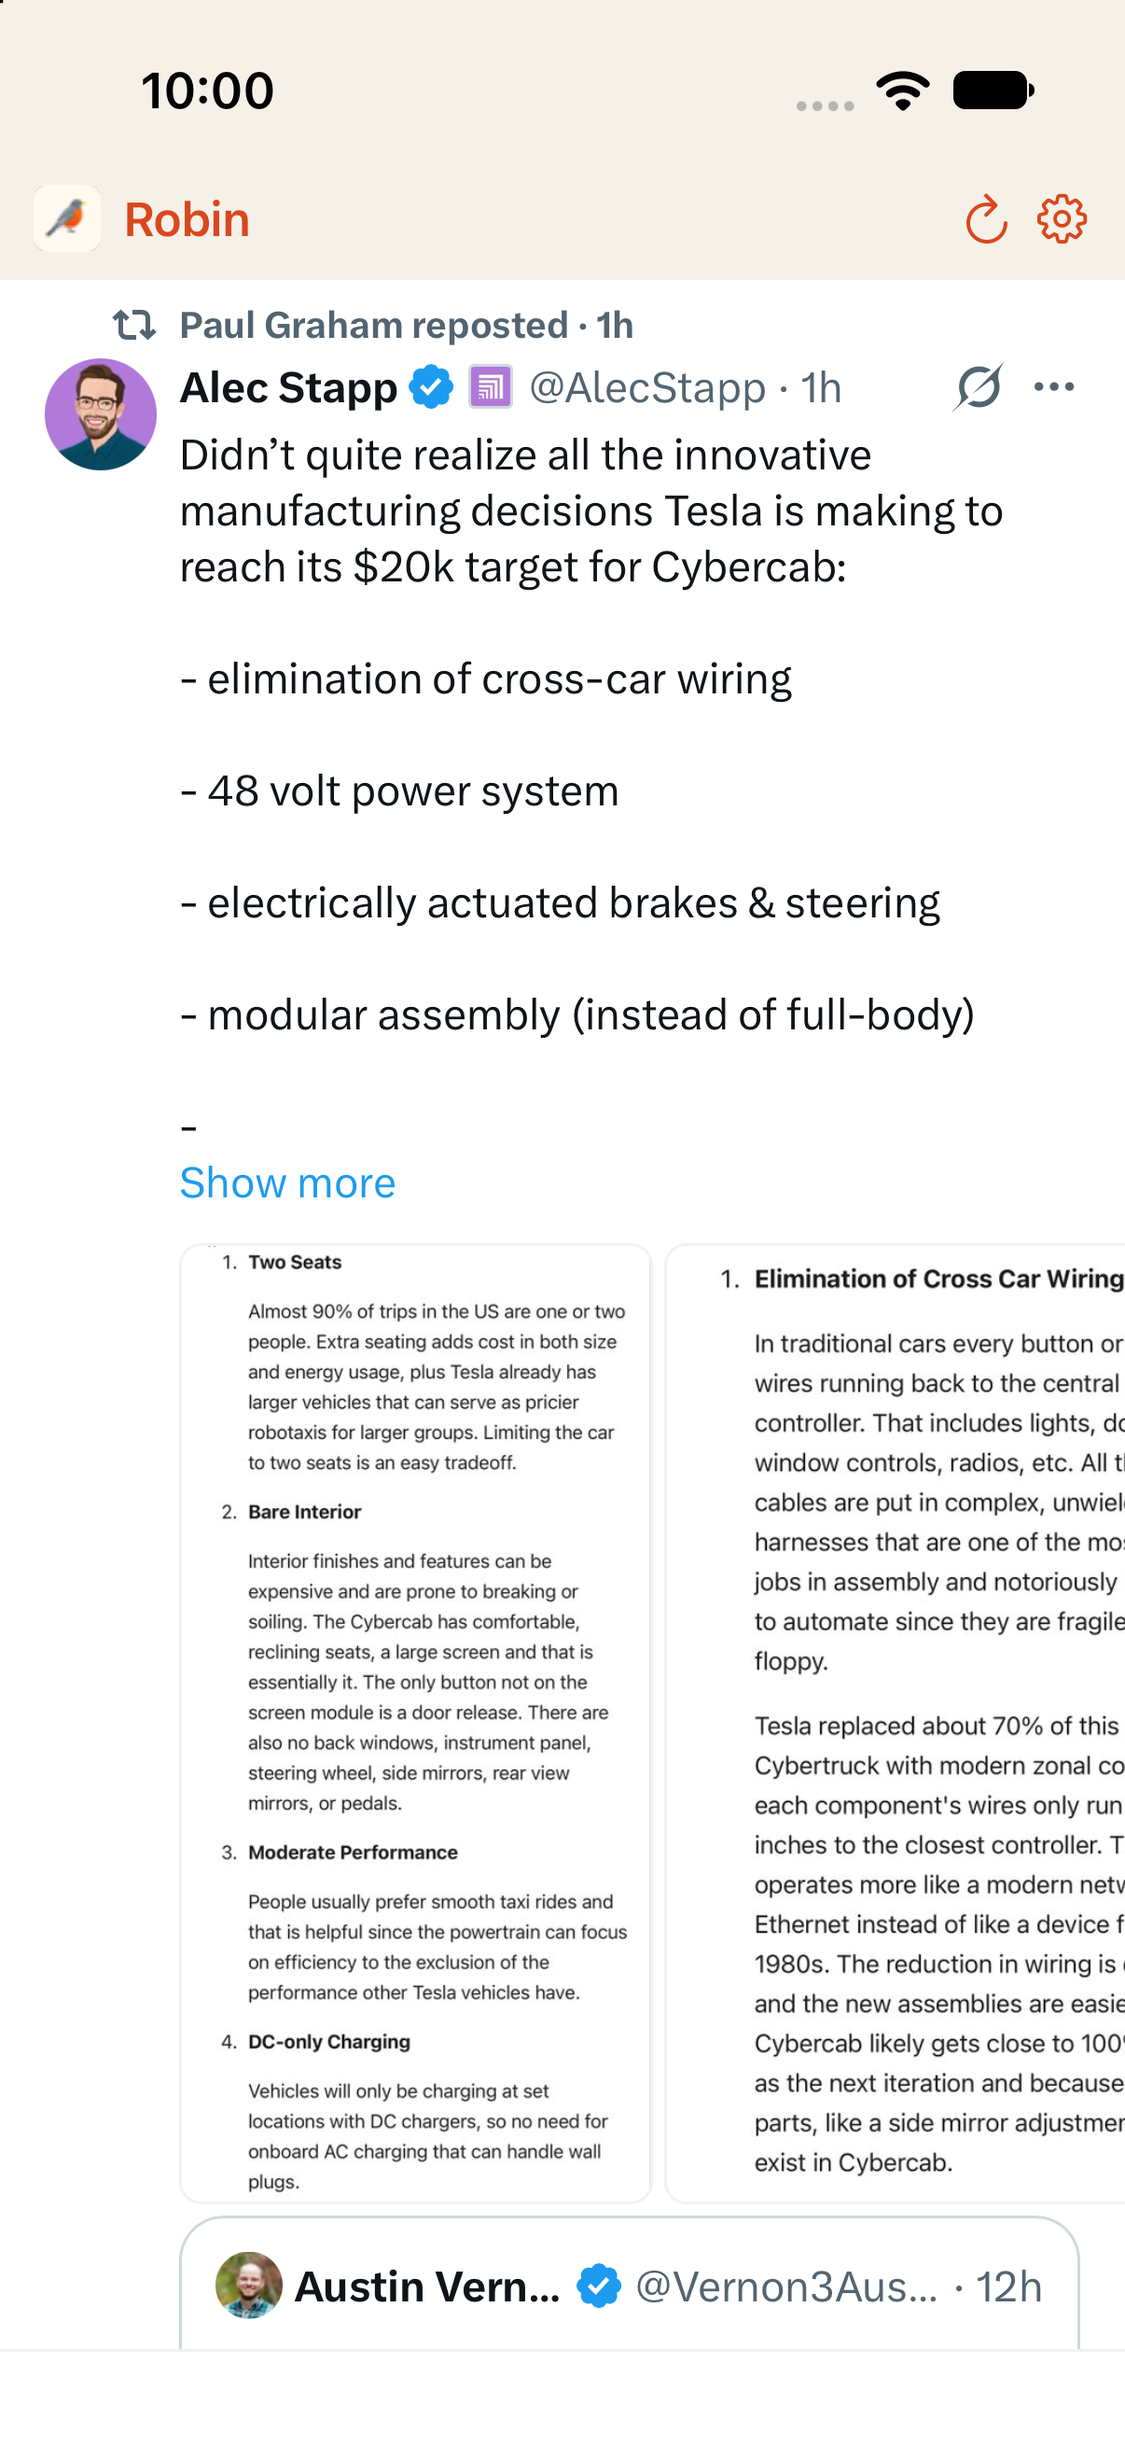
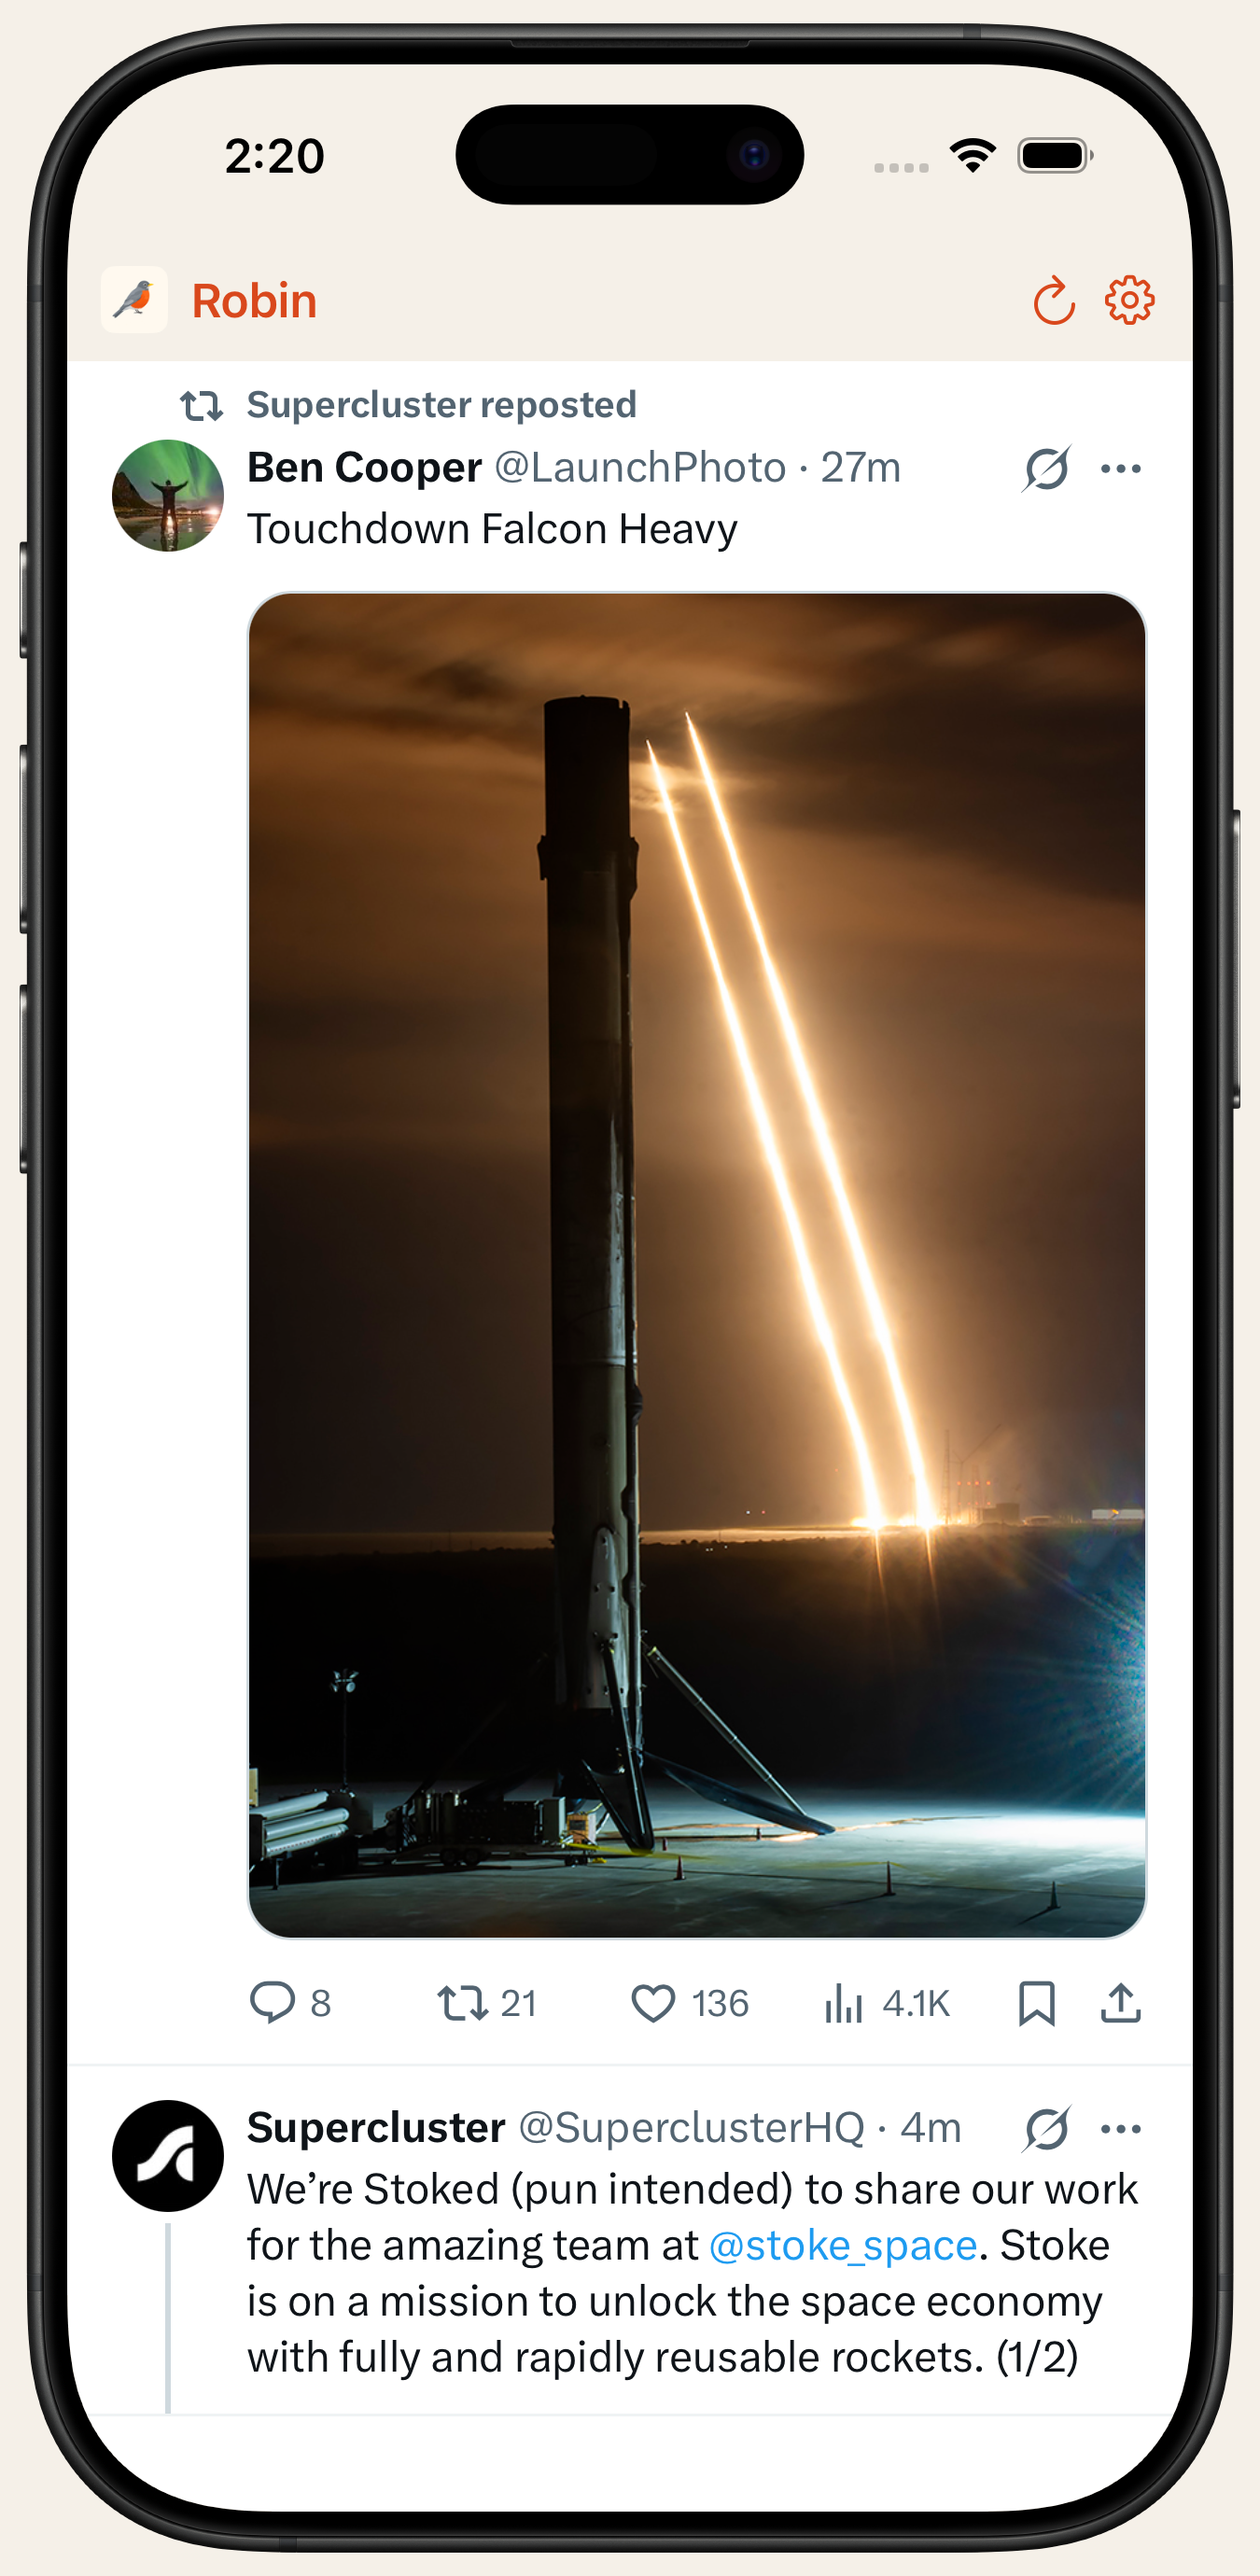
Refresh store screenshots with framed feed and settings shots.

diff --git a/ios/app-store/README.md b/ios/app-store/README.md
@@ -5,19 +5,15 @@ Listing copy for fastlane deliver lives in `fastlane/metadata/en-US/`. Screensho
 | Asset | Spec |
 |-------|------|
 | iPhone 6.3" | 1206 × 2622 PNG |
-| iPhone 6.9" | 1320 × 2868 PNG (scaled from 6.3") |
+| iPhone 6.9" | 1320 × 2868 PNG |
 | iPad 13" | 2064 × 2752 PNG |
-| Demo recording | [`video/demo.mp4`](video/demo.mp4) — local capture. App Preview is a separate `.mov` upload. |
+| Demo recording | [`video/demo.mp4`](video/demo.mp4) |
 
-## Screenshots included
+## Screenshots
 
-### iPhone (17)
+Framed with **official Apple Design Resources** bezels (fastlane `frameit-frames` — iPhone 16 Pro Black Titanium), letterboxed onto the required canvas sizes.
 
-1. `01-feed.png` — Following feed in the embedded X session (gear Settings)
-2. `02-feed-scrolled.png` — further down the timeline
+1. Feed — Following timeline
+2. Settings
 
-### iPad (13" upload size)
-
-1. `ipad-01-feed.png` / `ipad-02-feed-scrolled.png` — same WebView feed, sized for 13" listing
-
-Capture from Device Hub / simulator with an X session signed in, then copy into `fastlane/screenshots/en-US/` as `iPhone63-*`, `iPhone69-*`, `iPad13-*`. App Store text describes this iOS build only (no Android wording).
+App Store text describes this iOS build only (no Android wording).

diff --git a/README.md b/README.md
@@ -3,6 +3,12 @@
 [![License: MIT](https://img.shields.io/badge/License-MIT-blue.svg)](LICENSE)
 > Unofficial project. Not affiliated with, endorsed by, or sponsored by X Corp. or Twitter.
 
+<p>
+  <a href="https://apps.apple.com/us/app/robin-non-algorithmic-x/id6817063233"><img src="https://tools.applemediaservices.com/api/badges/download-on-the-app-store/black/en-us?size=250x83" alt="Download on the App Store" height="40"></a>
+  &nbsp;
+  <a href="https://play.google.com/store/apps/details?id=org.evergreenlabs.robin"><img src="https://play.google.com/intl/en_us/badges/static/images/badges/en_badge_web_generic.png" alt="Get it on Google Play" height="60"></a>
+</p>
+
 ## Why
 
 X is useful for staying current. Unfortunately, its default experience include a lot of distractions — promoted posts and pile-ons from people or non-human accounts you never followed. These distractions are not good for us. Some posts are half-truths, some replies are designed to trigger strong emotions intentionally. I think we can do better.

diff --git a/android/play-store/README.md b/android/play-store/README.md
@@ -14,12 +14,9 @@ Listing copy for supply lives in `fastlane/metadata/android/en-US/`. Phone crops
 
 ## Screenshots included
 
-### Phone (`screenshots/phone/`) — 1080 × 1920, WebView feed
+### Phone (`screenshots/phone/`) — 1080 × 1920, framed mockups
 
-1. `01-feed.png` — Following feed with refresh + Settings gear
-2. `02-feed-scrolled.png` — further down the timeline
-3. `03-settings.png` — Settings sheet (text size, filters, sign out)
+1. `01-feed.png` — Following feed in device frame
+2. `03-settings.png` — Settings sheet in device frame
 
-Capture the in-app x.com WebView, then crop to 1080×1920 (top-aligned) into this folder and `fastlane/metadata/android/en-US/images/phoneScreenshots/`.
-
-Optional extra: `icon/icon-1024.png` for other storefronts (not required by Play).
+Capture the in-app x.com WebView, compose framed mockups at 1080×1920, then copy into this folder and `fastlane/metadata/android/en-US/images/phoneScreenshots/`.
